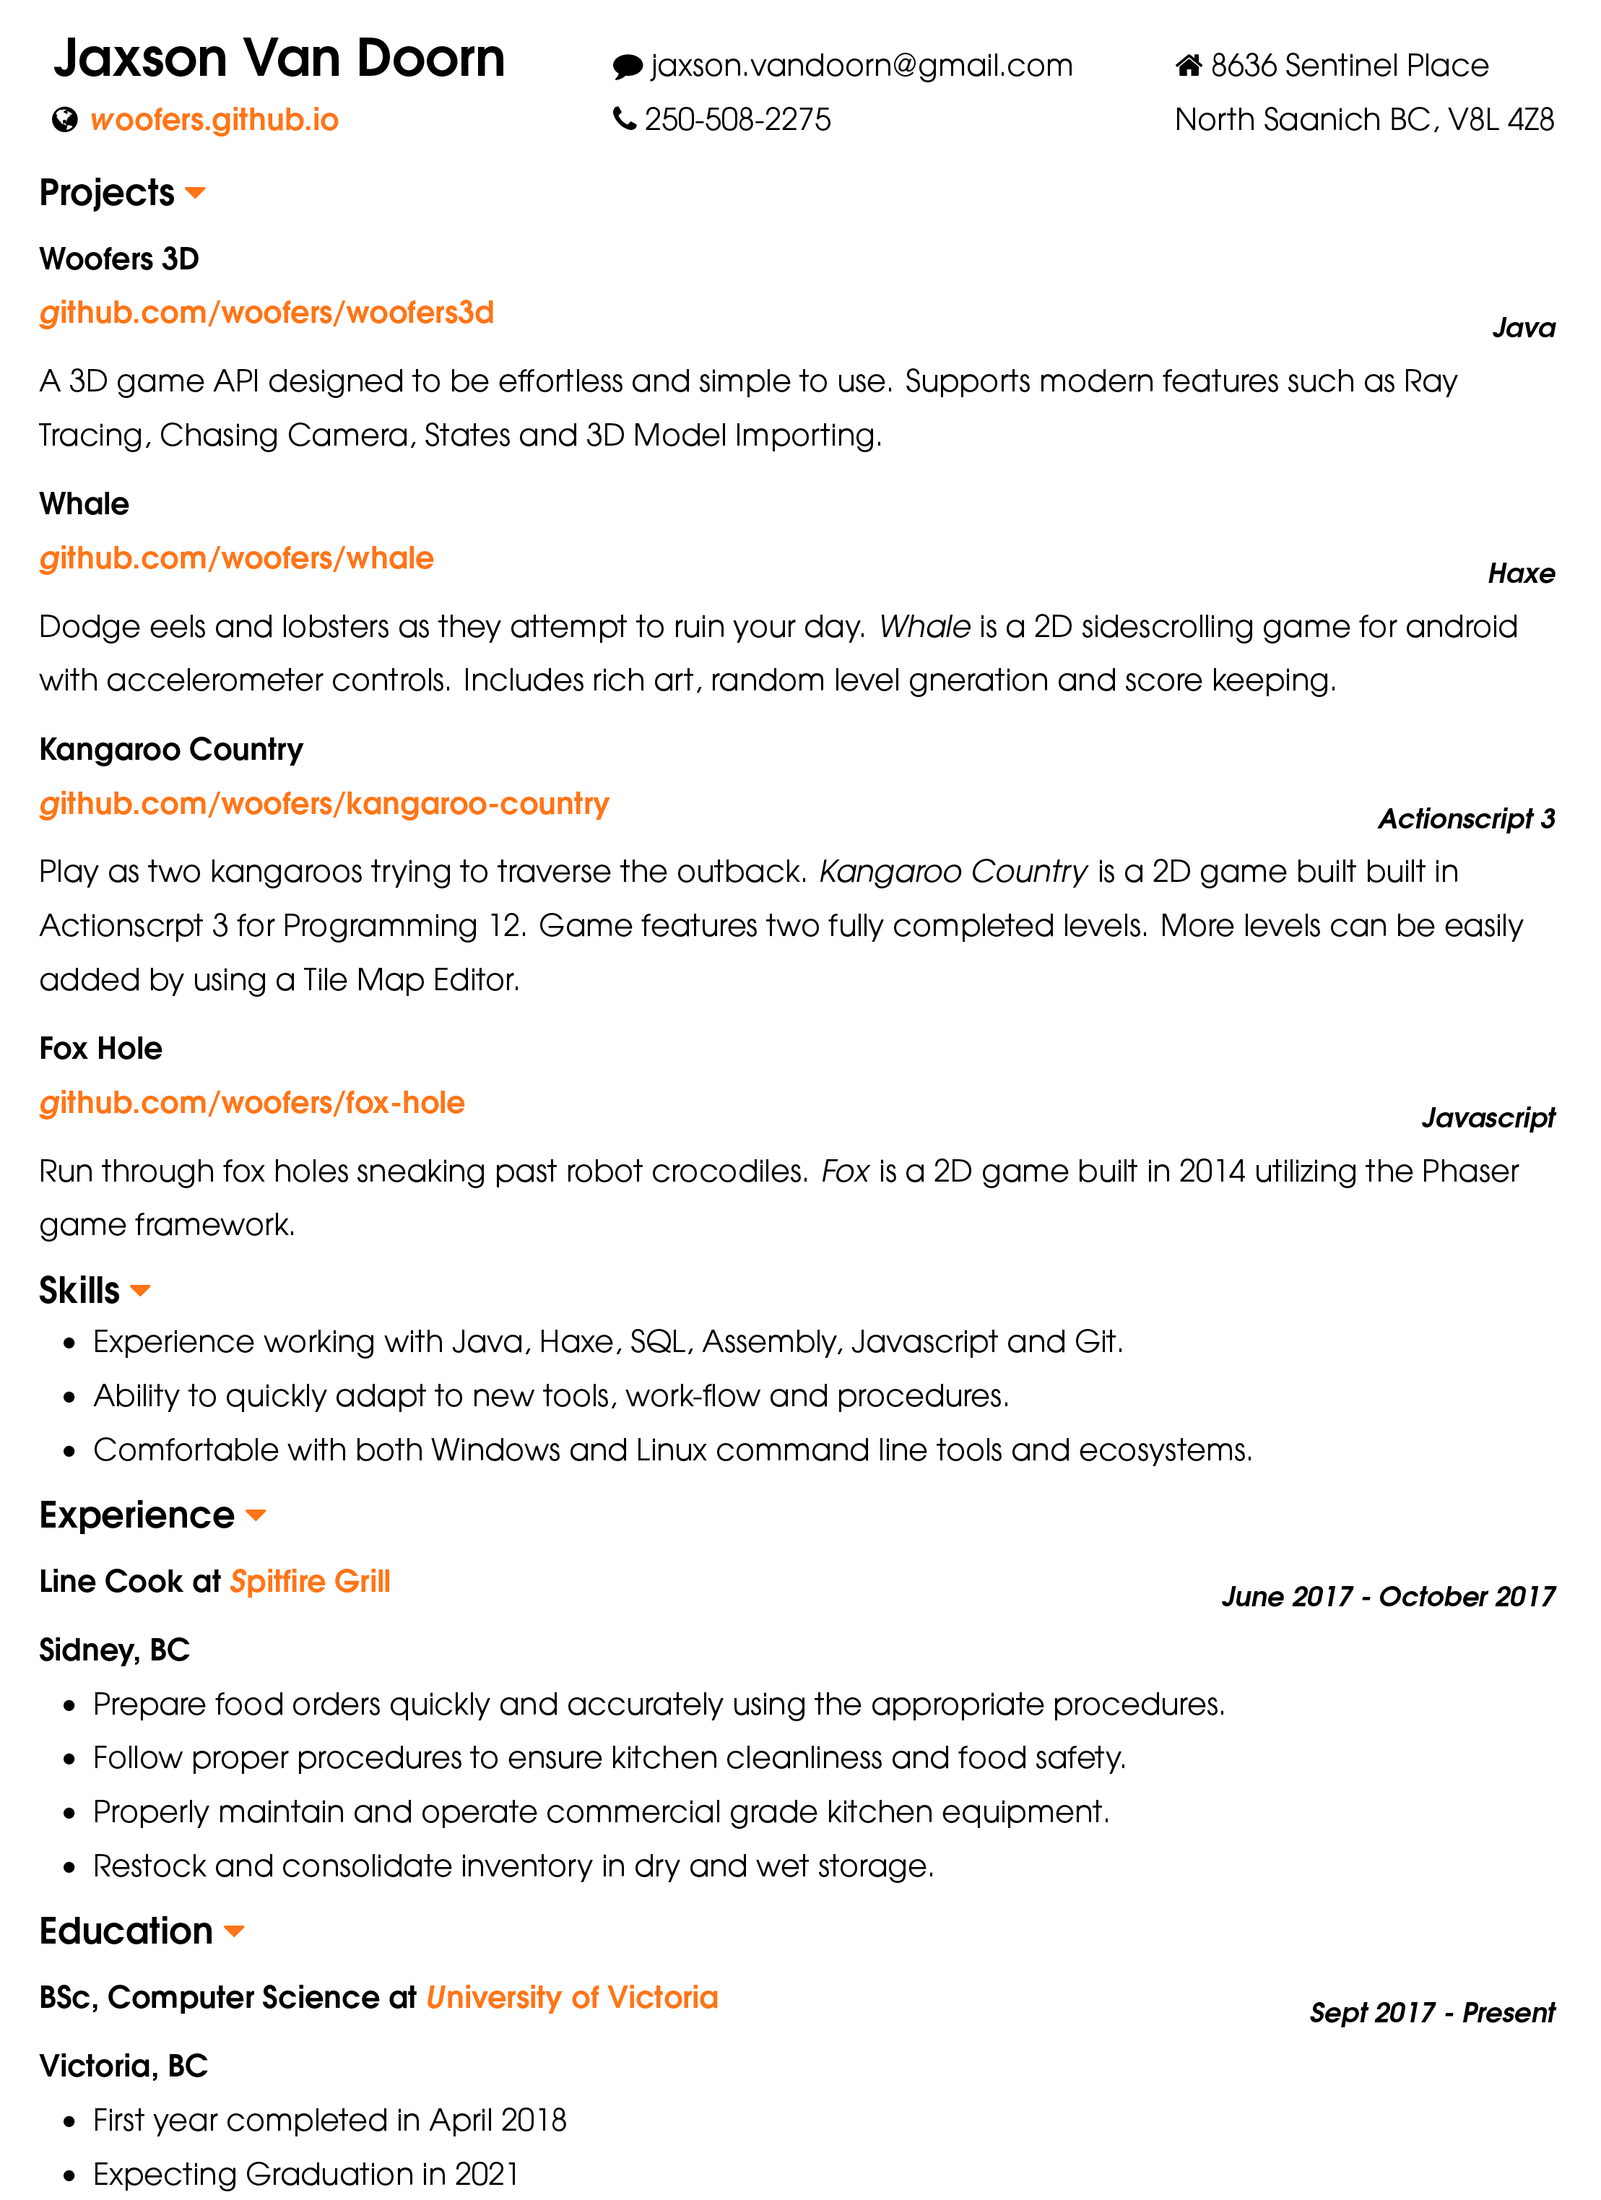
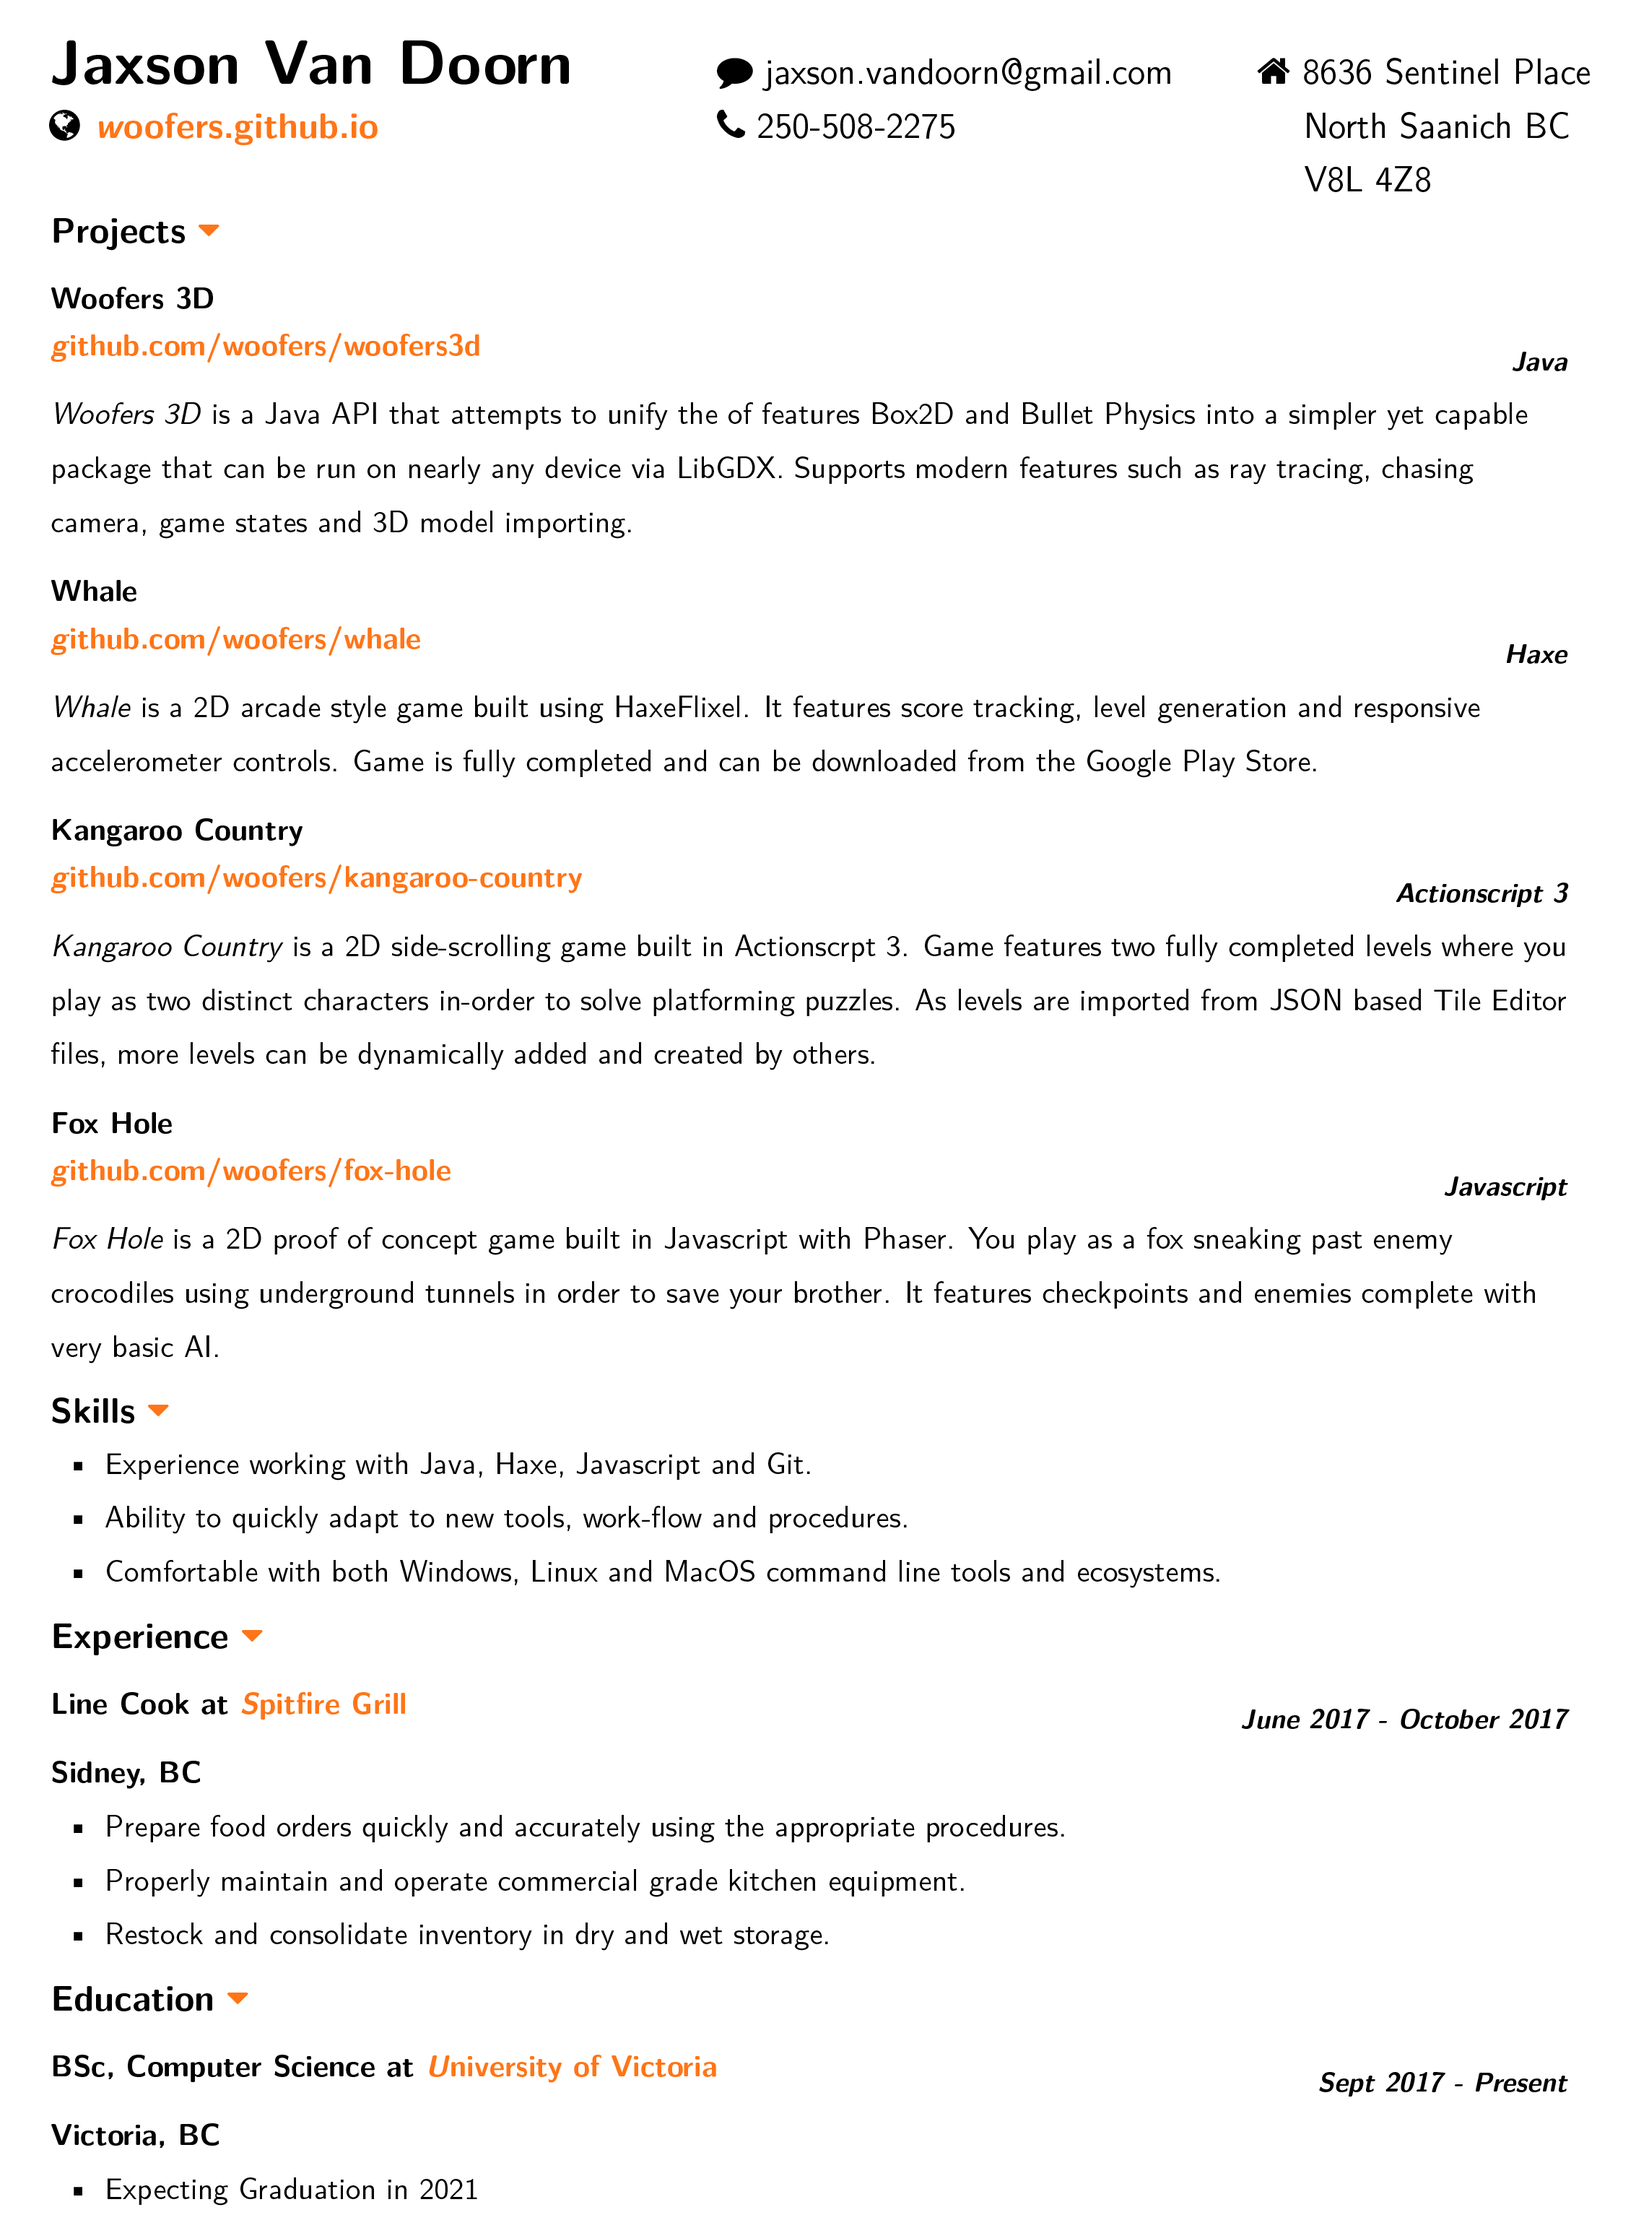
Update Preview Images

diff --git a/README.md b/README.md
@@ -25,8 +25,7 @@ Compiled with LuaTeX.
 
 ### Java
 
-A 3D game API designed to be effortless and simple to use.
-Supports modern features such as Ray Tracing, Chasing Camera, States and 3D Model Importing.
+*Woofers 3D* is a Java API that attempts to unify the of features Box2D and Bullet Physics into a simpler yet capable package that can be run on nearly any device via LibGDX. Supports modern features such as ray tracing, chasing camera, game states and 3D model importing.
 
 ## Whale
 
@@ -34,8 +33,7 @@ Supports modern features such as Ray Tracing, Chasing Camera, States and 3D Mode
 
 ### Haxe
 
-Dodge eels and lobsters as they attempt to ruin your day.
-*Whale* is a 2D sidescrolling game for android with accelerometer controls.  Includes rich art, random level gneration and score keeping.
+*Whale* is a 2D arcade style game built using HaxeFlixel. It features score tracking, level generation and responsive accelerometer controls. Game is fully completed and can be downloaded from the Google Play Store.
 
 ## Kangaroo Country
 
@@ -43,8 +41,7 @@ Dodge eels and lobsters as they attempt to ruin your day.
 
 ### Actionscript 3
 
-Play as two kangaroos trying to traverse the outback.
-*Kangaroo Country* is a 2D game built built in Actionscrpt 3 for Programming 12. Game features two fully completed levels. More levels can be easily added by using a Tile Map Editor.
+*Kangaroo Country* is a 2D side-scrolling game built in Actionscrpt 3. Game features two fully completed levels where you play as two distinct characters in-order to solve platforming puzzles. As levels are imported from JSON based Tile Editor files, more levels can be dynamically added and created by others.
 
 ## Fox Hole
 
@@ -52,14 +49,13 @@ Play as two kangaroos trying to traverse the outback.
 
 ### Javascript
 
-Run through fox holes sneaking past robot crocodiles.
-*Fox* is a 2D game built in 2014 utilizing the Phaser game framework.
+*Fox Hole* is a 2D proof of concept game built in Javascript with Phaser. You play as a fox sneaking past enemy crocodiles using underground tunnels in order to save your brother. It features checkpoints and enemies complete with very basic AI.
 
 # Skills
 
--   Experience working with Java, Haxe, SQL, Assembly, Javascript and Git.
+-   Experience working with Java, Haxe, Javascript and Git.
 -   Ability to quickly adapt to new tools, work-flow and procedures.
--   Comfortable with both Windows and Linux command line tools and ecosystems.
+-   Comfortable with both Windows, Linux and MacOS command line tools and ecosystems.
 
 # Experience
 
@@ -69,7 +65,6 @@ Run through fox holes sneaking past robot crocodiles.
 
 **Sidney, BC**
 -   Prepare food orders quickly and accurately using the appropriate procedures.
--   Follow proper procedures to ensure kitchen cleanliness and food safety.
 -   Properly maintain and operate commercial grade kitchen equipment.
 -   Restock and consolidate inventory in dry and wet storage.
 
@@ -80,5 +75,4 @@ Run through fox holes sneaking past robot crocodiles.
 ### Sept 2017 - Present
 
 **Victoria, BC**
--   First year completed in April 2018
 -   Expecting Graduation in 2021
